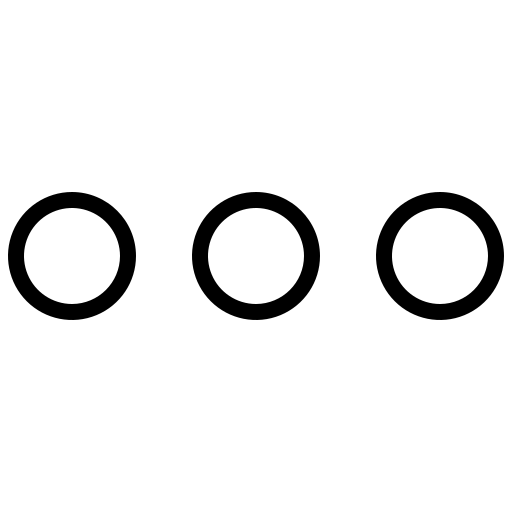
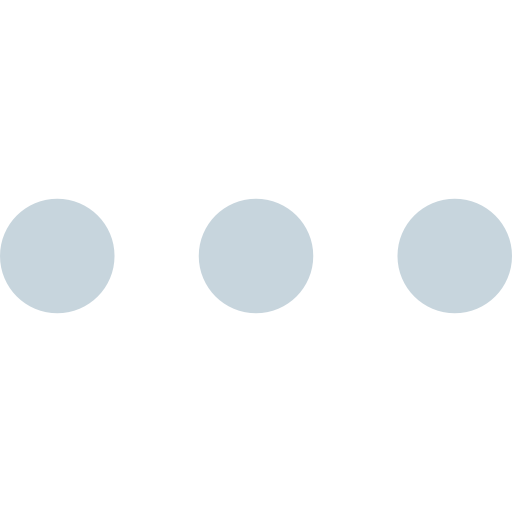
upto section 9

Changed region(s): [[0.7188, 0.375, 1.0, 0.625], [0.375, 0.375, 0.625, 0.625], [0.0, 0.375, 0.2812, 0.625]]

diff --git a/index.html b/index.html
@@ -240,25 +240,101 @@
     <section>
         <div class="container">
             <div class="row">
-                <ul>
-                    <li>126</li>
-                    <li>Projects</li>
-                </ul>
-                
-                <ul>
-                    <li>63</li>
-                    <li>Happy Clients</li>
-                </ul>
-                <ul>
-                    <li>18</li>
-                    <li>Awards Wins</li>
-                </ul>
-                <ul>
-                    <li>27</li>
-                    <li>Countries</li>
-                </ul>
+                <div class="works">
+                    <ul>
+                        <li><h3>126</h3></li>
+                        <li>Projects</li>
+                    </ul>
+                    <img src="images/more.png" alt="" aria-hidden="true">
+                    <ul>
+                        <li>63</li>
+                        <li>Happy Clients</li>
+                    </ul>
+                    <img src="images/more.png" alt="" aria-hidden="true">
+                    <ul>
+                        <li>18</li>
+                        <li>Awards Wins</li>
+                    </ul>
+                    <img src="images/more.png" alt="" aria-hidden="true">
+                    <ul>
+                        <li>27</li>
+                        <li>Countries</li>
+                    </ul>
+                </div>
             </div>
         </div>
     </section>
+
+    <!-- 8 -->
+
+    <section>
+        <div class="container">
+            <div class="blogs">
+                <div>
+                    <h2>Blog Entities</h2>
+                    <p>Lorem ipsum dolor sit, amet consectetur adipisicing elit. Soluta s,  tempora aliquam nostrum magnam fugit quos  porro ad.</p>
+                </div>
+
+                <div class="row">
+                    <div class="col1">
+                        <img src="images/s8-img1.jpg" alt="image of a mac pc">
+                        <h2>Lorem ipsum dolor sit.</h2>
+                        <p>Lorem ipsum, dolor amet consectetur  elit.  modi minima atque fugiat adipisci reprehenderit accusantium non?</p>
+                        <button>read more</button>
+                    </div>
+                    <div class="col2">
+                        <img src="images/s8-img2.jpg" alt="img of a calculator">
+                        <h2>Lorem ipsum dolor amet.</h2>
+                        <p>Lorem ipsum, dolor amet consectetur  elit.  modi minima atque fugiat adipisci reprehenderit accusantium non?</p>
+                        <button>read more</button>
+                    </div>
+                    <div class="col3">
+                        <img src="images/s8-img3.jpg" alt="image of a mac pc">
+                        <h2>Lorem ipsum dolor sit.</h2>
+                        <p>Lorem ipsum, dolor amet consectetur  elit.  modi minima atque fugiat adipisci reprehenderit accusantium non?</p>
+                        <button>read more</button>
+                    </div>
+                </div>
+            </div>
+        </div>
+    </section>
+
+    <!-- 9 contact us -->
+
+    <section>
+        <div class="container">
+            <h2>talk to us</h2>
+            <p>Maecenas pellentesque ante faucibus lectus vulputate sollicitudin. Cras feugiat hendrerit semper.</p>
+        </div>
+        <div class="row">
+            <div class="content">
+
+            </div>
+            <div class="form">
+                <form action="#" method="post">
+                    <label for="fname"></label>
+                    <input type="text" id="fname" name="fname" placeholder="Full Name">
+                    <label for="e-mail"></label>
+                    <input type="email" name="e-maid" id="email" placeholder="E-mail Address">
+                    <label for="your-msg"></label>  
+                    <textarea name="your meaage" id="your-msg" cols="30" rows="10" placeholder="Your Mesage"></textarea>
+                    <input type="submit" value="send message"></input>                  
+                </form>
+            </div>
+        </div>
+    </section>
+
+    <!-- 10 social media-->
+    <footer>
+        <div>
+            <img src="" alt="">
+            <img src="" alt="">
+            <img src="" alt="">
+            <img src="" alt="">
+            <img src="" alt="">
+        </div>
+        <hr>
+        <p>copyright <small>&#169; 2022</small> softy pinko company - design template</p>
+    </footer>
 </body>
 </html>

diff --git a/styles/style.css b/styles/style.css
@@ -22,6 +22,10 @@ p{
     color: #777;
     line-height: 1.7;
 }
+button{
+    cursor: pointer;
+    font-family: inherit;
+}
 body{
     /* background: rgb(18, 209, 209); */
     font-size: 16px;
@@ -393,7 +397,9 @@ section:nth-child(6){
     /* margin-top: 2rem; */
     /* background-color: rgb(108, 70, 70); */
     display: flex;
-    flex-direction: column;    
+    flex-direction: column; 
+    /* width: 95%;   */
+    margin: auto; 
 }
 .plans > div:first-child{
     width: 80%;
@@ -420,15 +426,16 @@ section:nth-child(6){
     margin-bottom: 3rem;;
 }
 .plans div[class*="plan"]{
-    background-color: rgb(242, 242, 242);
+    background-color: rgb(255, 252, 252);
     margin: 1.5rem auto;
     box-shadow: 0 1px 10px rgba(177, 176, 176, 0.464);
-    width: 320px;
+    width: 340px;
     display: flex;
     flex-direction: column;
     align-items: center;
-    padding: 1.5rem;
+    padding: 2rem;
     margin-bottom: 6rem;
+    border-radius: 1rem;
 }
 
 .plans div[class*="plan"] strong{
@@ -452,7 +459,7 @@ section:nth-child(6){
     text-align: center;
     padding: 1.5rem;
     margin: 1rem auto;
-    border-radius: 15px;
+    border-radius: 1rem;
     color:rgb(237, 237, 237);
     font-size: 25px;
 }
@@ -481,6 +488,105 @@ div[class*="plan2"] > div{
     transition: background .5s;
 }
 .plans button:hover{
+    background-color:#e70c72;
+    cursor: pointer;
+}
+                                /* section 7 */
+
+section:nth-child(7){
+    background: url(../images/win.jpg) center/cover no-repeat ,linear-gradient(90deg, rgb(235, 30, 225) 20%, rgb(98, 0, 255) 80%);
+    background-blend-mode: overlay;
+    height: 350px;
+}
+.works{
+    display: flex;
+    width: 100%;
+    height:350px;
+    /* background-color: #fff; */
+    align-items: center;
+    justify-content: space-evenly;
+}
+.works ul{
+    list-style-type: none;
+    /* display:; */
+}
+.works ul li{
+    margin: 1rem auto;
+    color:rgb(237, 237, 237);
+    text-align: center;
+    }
+.works ul li:first-child{
+    font-size: 2rem;
+    font-weight: 700;
+}
+
+.works ul li:last-child{
+    font-size: 1.1rem;
+    font-weight: 500;
+}
+.works img {
+    width: 50px;
+}
+
+                                                /* section 8 blogs */
+
+.blogs >div:first-child{
+    height: 200px;
+    display: flex;
+    flex-direction: column;
+    align-items: center;
+    justify-content: flex-end;
+    
+}
+.blogs >div:first-child h2{
+    font-size: 1.7rem;;
+    font-weight: 500;
+    margin-bottom: 1.5rem;
+}
+.blogs >div:first-child p{
+    width: 50%;
+    text-align: center;
+}
+
+.blogs div[class*="col"]{
+    width: 360px;;
+    margin: auto;
+    margin-top: 4rem;
+    overflow: hidden;
+    /* box-shadow: 0 1px 10px rgba(126, 126, 126, 0.686); */
+    text-align:center;
+    overflow: hidden;
+}
+.blogs [class*="col"] img{
+    width: 340px;
+    border-radius: 1rem;
+}
+.blogs [class*="col"] h2{
+    margin-top: 1.5rem;
+    line-height: 1.8;
+    word-spacing: 2px;
+}
+.blogs [class*="col"] p{
+    font-size: 14px;
+    word-spacing: 1px;
+    letter-spacing: 2px;
+    line-height: 1.6;
+    margin-top: 2.2rem;
+    font-weight: 500;
+}
+
+.blogs button{
+    padding: 1rem 1.5rem;
+    margin-top: 2rem;
+    border-radius: 1.5rem ;
+    text-transform: uppercase;
+    background-color:#6610f2;
+    color: #fff;
+    border: none;
+    transition: background .5s;
+    font-weight: 500;
+}
+.blogs button:hover{
     background-color:#e70c72;
     cursor: pointer;
 }
